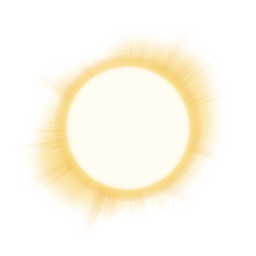
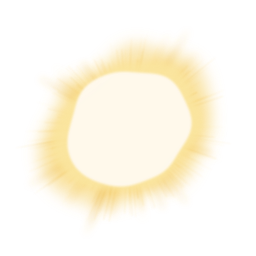
A corona that the moon covers, and pasting screenshots and files
The light corona had a full, even ring round the moon, which read as a
halo rather than light the moon hides. Its brightest light is uneven
now too, spilling past the moon where the corona is strong and barely
where it is weak.

Cmd+V in the composer attaches what was copied besides text: images (a
screenshot) as images, other files uploaded to the host, and files
copied in Finder read and uploaded as well. The text goes in as before.

Changed region(s): [[0.2188, 0.2188, 0.7812, 0.7812]]

diff --git a/App.test.tsx b/App.test.tsx
@@ -15,3 +15,10 @@ test("opens the new workspace screen", async () => {
   await app.press("New workspace >> nth=0");
   expect(app.texts()).toContain("Import session");
 });
+
+test("attaches a pasted screenshot", async () => {
+  const app = await open(".", { width: 1100, height: 760 });
+  await app.press("New workspace >> nth=0");
+  await app.paste("What should the agent do?", { files: ["assets/loader/moon@2x.png"] });
+  expect(app.texts()).toContain("moon@2x.png");
+});

diff --git a/src/ui/shared/composer.rs b/src/ui/shared/composer.rs
@@ -71,6 +71,7 @@ pub(crate) fn composer(target: Target, placeholder: &'static str) -> AnyElement 
                             .multiline(true)
                             .submit_behavior(SubmitBehavior::Newline)
                             .on_change(move |v: &str| set_text(v))
+                            .on_paste(attach_pasted)
                             .on_content_size_change(move |size: &Size<Points>| {
                                 height.set(size.height.clamp(px(22.0), px(160.0)).0);
                             })
@@ -149,6 +150,7 @@ pub(crate) fn composer(target: Target, placeholder: &'static str) -> AnyElement 
                 .multiline(true)
                 .submit_behavior(SubmitBehavior::Submit)
                 .on_change(move |v: &str| set_text(v))
+                .on_paste(attach_pasted)
                 .on_submit(move |_: &str| submit())
                 .on_content_size_change(move |size: &Size<Points>| {
                     height.set(size.height.clamp(px(22.0), px(220.0)).0);
@@ -855,6 +857,70 @@ fn mic_button(text_value: Memo<String>, set_text: impl Fn(&str) + Copy + 'static
         }))
 }
 
+/// Cmd+V / Ctrl+V: what was pasted besides text goes with the message, as
+/// Paseo's composer takes it: images (a screenshot) as images, other files
+/// uploaded to the host, and files copied in Finder read and uploaded too
+/// (the host may be another computer). The text itself is inserted as
+/// usual.
+fn attach_pasted(e: &nsh_core::PasteEvent) {
+    use base64::Engine;
+    let mut images = vec![];
+    for f in &e.files {
+        if f.mime.starts_with("image/") {
+            images.push(crate::daemon::connection::ImageInput {
+                name: f.name.clone(),
+                mime: f.mime.clone(),
+                data: base64::engine::general_purpose::STANDARD.encode(&f.data),
+            });
+        } else {
+            store::attach_file(f.name.clone(), f.mime.clone(), f.data.clone());
+        }
+    }
+    if !images.is_empty() {
+        store::add_images(images);
+    }
+    #[cfg(not(target_arch = "wasm32"))]
+    for uri in &e.uris {
+        let Some(path) = uri.strip_prefix("file://") else { continue };
+        let path = std::path::PathBuf::from(percent_decode(path));
+        if path.is_dir() {
+            continue;
+        }
+        let Ok(bytes) = std::fs::read(&path) else { continue };
+        let name = path.file_name().map(|n| n.to_string_lossy().into_owned()).unwrap_or_else(|| "file".into());
+        let mime = nsh_core::picker::mime_for_file(&name, &bytes).to_owned();
+        if mime.starts_with("image/") {
+            store::add_images(vec![crate::daemon::connection::ImageInput {
+                name,
+                mime,
+                data: base64::engine::general_purpose::STANDARD.encode(&bytes),
+            }]);
+        } else {
+            store::attach_file(name, mime, bytes);
+        }
+    }
+}
+
+/// A `file:` URL's path with its `%XX` escapes decoded.
+#[cfg(not(target_arch = "wasm32"))]
+fn percent_decode(s: &str) -> String {
+    let b = s.as_bytes();
+    let mut out = Vec::with_capacity(b.len());
+    let mut i = 0;
+    while i < b.len() {
+        if b[i] == b'%' && i + 2 < b.len() {
+            if let Ok(v) = u8::from_str_radix(&s[i + 1..i + 3], 16) {
+                out.push(v);
+                i += 3;
+                continue;
+            }
+        }
+        out.push(b[i]);
+        i += 1;
+    }
+    String::from_utf8_lossy(&out).into_owned()
+}
+
 /// The image on the clipboard, attached to the message.
 fn paste_image_into_composer() {
     spawn(async move {
@@ -875,4 +941,13 @@ fn paste_image_into_composer() {
             _ => store::notify(t("Could not read the pasted image").into()),
         }
     });
+}
+
+#[cfg(all(test, not(target_arch = "wasm32")))]
+mod tests {
+    #[test]
+    fn decodes_file_url_paths() {
+        assert_eq!(super::percent_decode("/Users/a/My%20Shot%E5%9B%BE.png"), "/Users/a/My Shot图.png");
+        assert_eq!(super::percent_decode("/tmp/100%"), "/tmp/100%");
+    }
 }

diff --git a/assets/app-icon/gen_icon.py b/assets/app-icon/gen_icon.py
@@ -72,15 +72,21 @@ if LIGHT:
 <path d="{lobes(R, 80, 9)}" fill="#f8dc86" opacity=".6"/></g>'''
     long_streams = streams(26, 110, 260, 10, 24, .35, .6)
     fine_streams = streams(170, 30, 190, 1.4, 3.4, .2, .55)
+    # No ring: the brightest light is uneven too, spilling past the moon
+    # where the corona is strong and barely at all where it is weak, as
+    # if the moon only covered it.
+    core = f'''<g filter="url(#b9)"><path d="{lobes(R - 30, 95, 13)}" fill="#fbe6a0" opacity=".9"/></g>
+<g filter="url(#b5)"><path d="{lobes(R - 30, 50, 17)}" fill="#fffaf0" opacity=".95"/></g>'''
 else:
     glow_shape = '<circle cx="512" cy="512" r="470" fill="url(#glow)"/>'
     long_streams = streams(22, 70, 200, 14, 30, .22, .45)
     fine_streams = streams(150, 20, 150, 1.4, 3.2, .12, .42)
+    core = f'''<circle cx="512" cy="512" r="300" fill="url(#inner)"/>
+<circle cx="512" cy="512" r="{R+3}" fill="none" stroke="#fff6ef" stroke-width="10" filter="url(#b5)" opacity=".9"/>'''
 corona=f'''{glow_shape}
 <g filter="url(#b9)" style="mix-blend-mode:screen">{long_streams}</g>
 <g filter="url(#b2)" style="mix-blend-mode:screen">{fine_streams}</g>
-<circle cx="512" cy="512" r="300" fill="url(#inner)"/>
-<circle cx="512" cy="512" r="{R+3}" fill="none" stroke="#fff6ef" stroke-width="10" filter="url(#b5)" opacity=".9"/>'''
+{core}'''
 moon=f'''<circle cx="512" cy="512" r="{R}" fill="url(#disc)"/>
 <circle cx="512" cy="512" r="{R}" fill="url(#limb)"/>
 <circle cx="512" cy="512" r="{R-1}" fill="none" stroke="url(#rim)" stroke-width="2.5"/>'''
